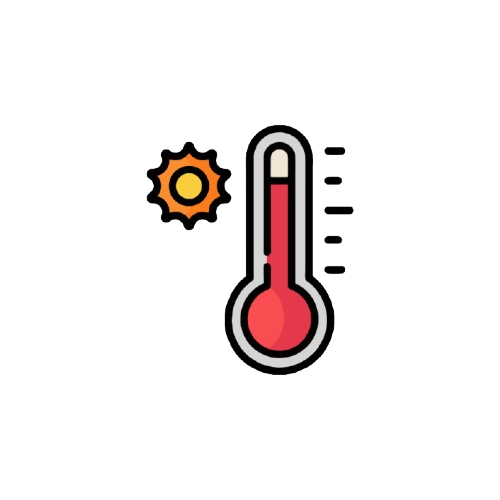
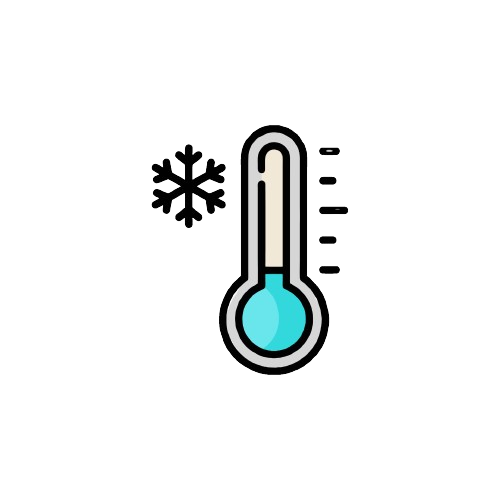
upd

Changed region(s): [[0.27, 0.24, 0.69, 0.75], [0.69, 0.39, 0.72, 0.45]]

diff --git a/src/components/Weather/WeatherStats/WeatherStats.jsx b/src/components/Weather/WeatherStats/WeatherStats.jsx
@@ -1,4 +1,5 @@
 import css from './WeatherStats.module.css'
+import warmIcon from '../../../imgs/weather/warm.png'
 
 
 export const WeatherStats = () => {
@@ -8,7 +9,7 @@ export const WeatherStats = () => {
                 <li className={css.stats__item}>
                     <p className={css.item__title}>Feels like</p>
                     <p className={css.item__comment}>29,2</p>
-                    <img className={css.item__icon} src={`/imgs/weather/cold.png`} alt="" />
+                    <img className={css.item__icon} src={warmIcon} alt="" />
                 </li>
             </ul>
         </div>

diff --git a/src/services/getPixabayContent.js b/src/services/getPixabayContent.js
@@ -1,5 +1,5 @@
 const BASE_URL = `https://pixabay.com/api`;
-const API_KEY = '42288068-1aa5220c6fe3b03abf2540867';
+const API_KEY = '583e53da8e81b7f76fbb83c907e74178';
 
 export default function fetchImages(query, page) {
   return fetch(
